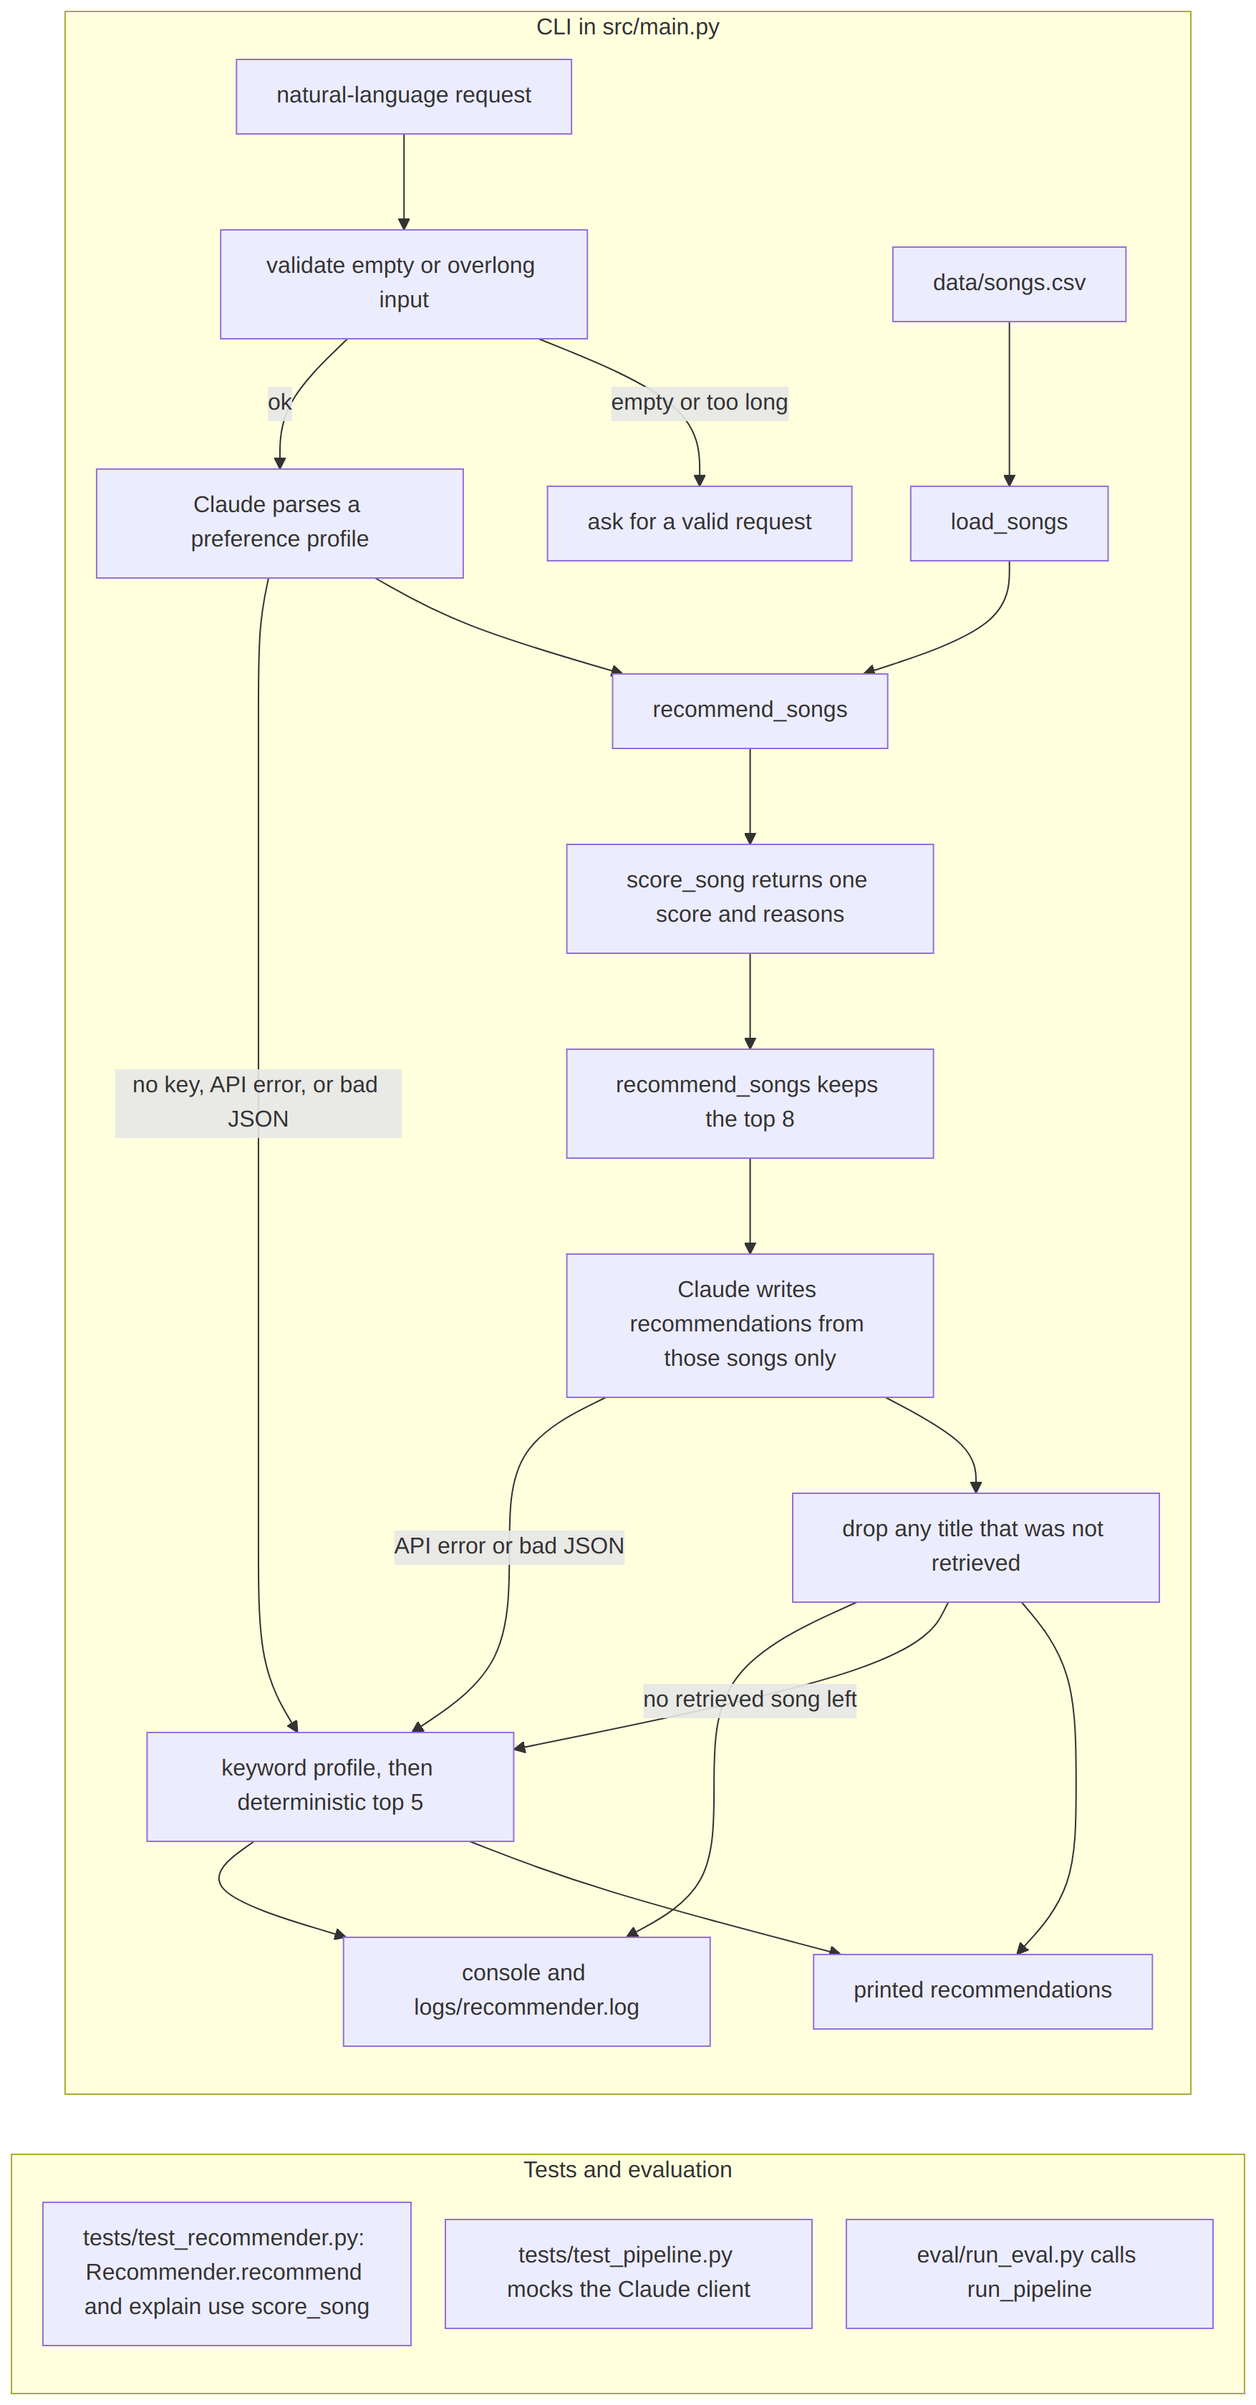
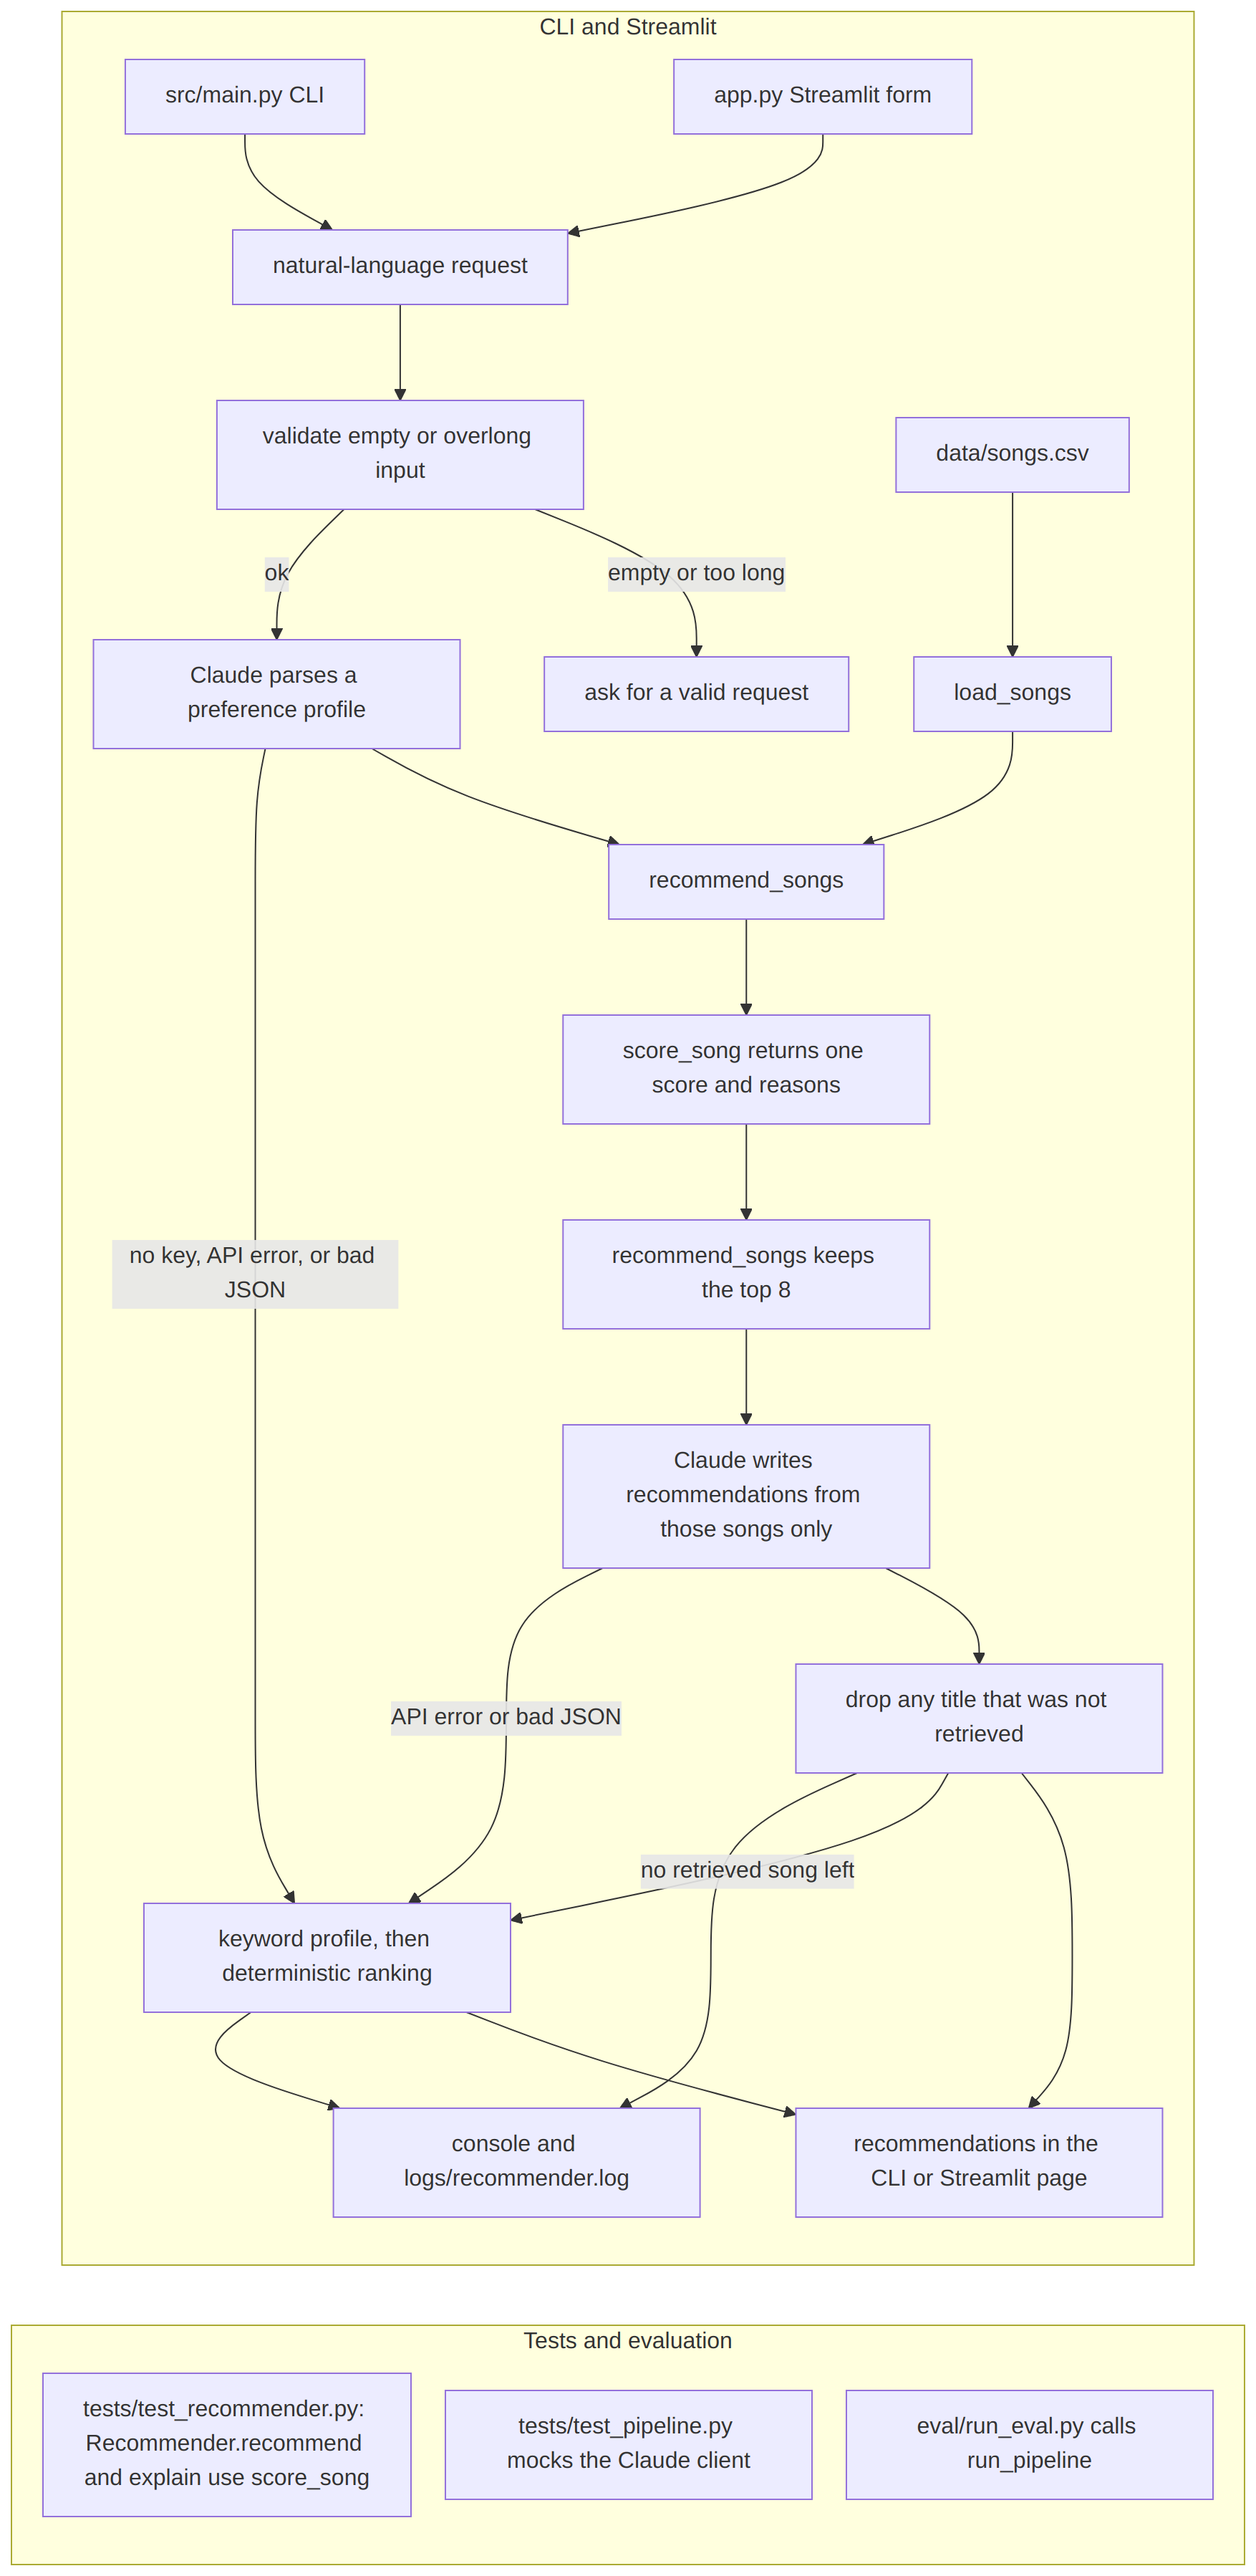
Add a Streamlit page for the recommender.
The page calls the same pipeline as the CLI, with a request box, a result count, and a clear fallback notice when Claude is unavailable.

diff --git a/app.py b/app.py
@@ -1,0 +1,77 @@
+"""Streamlit UI for the music recommender.
+
+Run from the project root:
+
+    streamlit run app.py
+
+This page only collects input and displays what src.pipeline returns.
+"""
+
+import logging
+
+import streamlit as st
+
+from src.pipeline import RETRIEVAL_K, run_pipeline
+
+logger = logging.getLogger("recommender")
+
+st.set_page_config(page_title="Music Recommender", page_icon="🎵")
+st.title("Music Recommender")
+st.caption("Describe what you want to hear. The app parses that request, retrieves songs, and explains the matches.")
+
+request = st.text_input(
+    "What do you want to listen to?",
+    placeholder="upbeat songs for a late-night drive",
+)
+count = st.slider("Number of recommendations", min_value=1, max_value=10, value=5)
+
+
+def show_result(result) -> None:
+    """Render one pipeline result. The pipeline already decided the content."""
+    if result.mode == "invalid_input":
+        st.warning(result.message)
+        return
+    if result.mode == "fallback":
+        st.warning(result.message)
+    elif result.hallucinations:
+        st.info("Dropped songs that were not in the retrieved set: " + ", ".join(result.hallucinations))
+    else:
+        st.success(result.message)
+
+    if result.recommendations:
+        st.subheader("Recommendations")
+        for index, rec in enumerate(result.recommendations, start=1):
+            st.markdown(f"**{index}. {rec.title}** by {rec.artist}")
+            if rec.score is not None:
+                st.caption(f"Retrieval score: {rec.score:.2f}")
+            st.write(rec.explanation)
+
+    with st.expander("Parsed profile and retrieved songs"):
+        if result.profile:
+            st.markdown("**Preference profile**")
+            st.json(result.profile)
+        else:
+            st.write("No preference profile was built.")
+        st.markdown("**Retrieved candidates**")
+        if not result.retrieved:
+            st.write("No songs were retrieved.")
+        for song, score, reasons in result.retrieved:
+            st.markdown(
+                f"- **{song['title']}** by {song['artist']} "
+                f"({song['genre']}, {song['mood']}, score {score:.2f})"
+            )
+            st.caption(reasons)
+
+
+if st.button("Recommend"):
+    try:
+        result = run_pipeline(
+            request,
+            retrieval_k=max(RETRIEVAL_K, int(count)),
+            final_k=int(count),
+        )
+    except Exception:
+        logger.exception("ui: recommendation failed")
+        st.error("The recommender hit an unexpected error. Details are in logs/recommender.log.")
+    else:
+        show_result(result)

diff --git a/tests/test_app.py b/tests/test_app.py
@@ -1,0 +1,56 @@
+from pathlib import Path
+
+from streamlit.testing.v1 import AppTest
+
+APP_PATH = Path(__file__).resolve().parents[1] / "app.py"
+
+
+def test_streamlit_fallback_shows_recommendations_without_api_key(monkeypatch):
+    monkeypatch.delenv("ANTHROPIC_API_KEY", raising=False)
+    monkeypatch.setattr("src.pipeline.load_local_env", lambda: None)
+
+    app = AppTest.from_file(APP_PATH, default_timeout=30)
+    app.run()
+    assert not app.exception
+
+    app.text_input[0].set_value("upbeat songs for a late-night drive").run()
+    app.slider[0].set_value(3).run()
+    app.button[0].click().run()
+
+    assert not app.exception
+    warnings = " ".join(item.value for item in app.warning)
+    markdown = " ".join(item.value for item in app.markdown)
+    assert "Claude was not used" in warnings
+    assert "ANTHROPIC_API_KEY is not set" in warnings
+    assert "Sunrise City" in markdown
+    assert app.expander
+    expander_text = " ".join(item.value for item in app.expander[0].markdown)
+    assert "Sunrise City" in expander_text
+
+
+def test_streamlit_empty_request_does_not_crash():
+    app = AppTest.from_file(APP_PATH, default_timeout=30)
+    app.run()
+    app.button[0].click().run()
+
+    assert not app.exception
+    warnings = " ".join(item.value for item in app.warning)
+    assert "Please enter a music request" in warnings
+
+
+def test_streamlit_shows_a_message_instead_of_a_traceback(monkeypatch):
+    def explode(*args, **kwargs):
+        raise RuntimeError("catalog exploded")
+
+    # AppTest executes app.py, which imports run_pipeline at that moment.
+    monkeypatch.setattr("src.pipeline.run_pipeline", explode)
+    ui = AppTest.from_file(APP_PATH, default_timeout=30)
+    ui.run()
+    ui.text_input[0].set_value("calm lofi").run()
+    ui.button[0].click().run()
+
+    assert not ui.exception
+    errors = " ".join(item.value for item in ui.error)
+    assert "unexpected error" in errors
+    assert "catalog exploded" not in errors
+    assert "Traceback" not in errors

diff --git a/README.md b/README.md
@@ -79,7 +79,7 @@ flowchart TD
 
 ## How the applied system works
 
-1. **Validate.** The CLI rejects an empty request and anything over 500 characters.
+1. **Validate.** The CLI and the Streamlit page reject an empty request and anything over 500 characters.
 2. **Parse.** Claude (`claude-sonnet-5-5` unless `ANTHROPIC_MODEL` is set) returns a JSON preference profile: genre, mood, energy, valence, and the optional mood tags, decade, language, themes, and explicit flag. The app clamps numbers to 0–1 and drops malformed JSON.
 3. **Retrieve.** `load_songs` reads `data/songs.csv`. `recommend_songs` / `score_song` rank that catalog and keep the top 8 songs.
 4. **Generate.** Claude sees only that retrieved list, including each song's attributes, retrieval score, and scorer reasons, and writes up to 5 recommendations.
@@ -124,6 +124,16 @@ python -m src.main "upbeat songs for a late-night drive"
 ```
 
 Without a key, the same command still prints a ranked list and a message that the deterministic scorer was used.
+
+### Web UI
+
+From the project root, including VS Code's terminal:
+
+```bash
+streamlit run app.py
+```
+
+Streamlit opens a browser page with a text box, a slider for how many songs to show, and a Recommend button. It calls the same pipeline as the CLI. Without an API key, the page shows a notice that the deterministic scorer was used, then lists the songs. The parsed profile and the retrieved candidates are under "Parsed profile and retrieved songs".
 
 ### Evaluate
 
